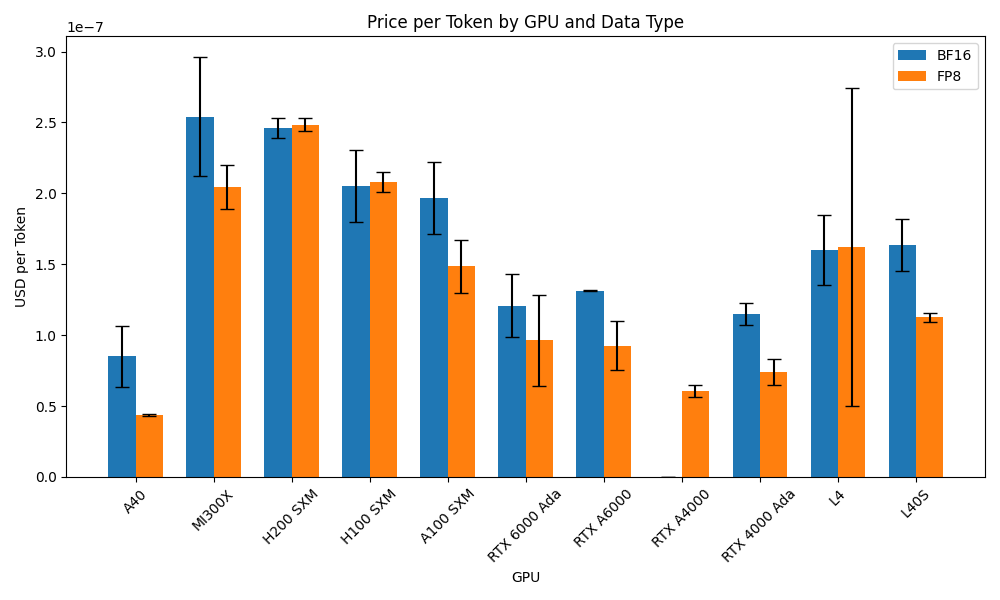
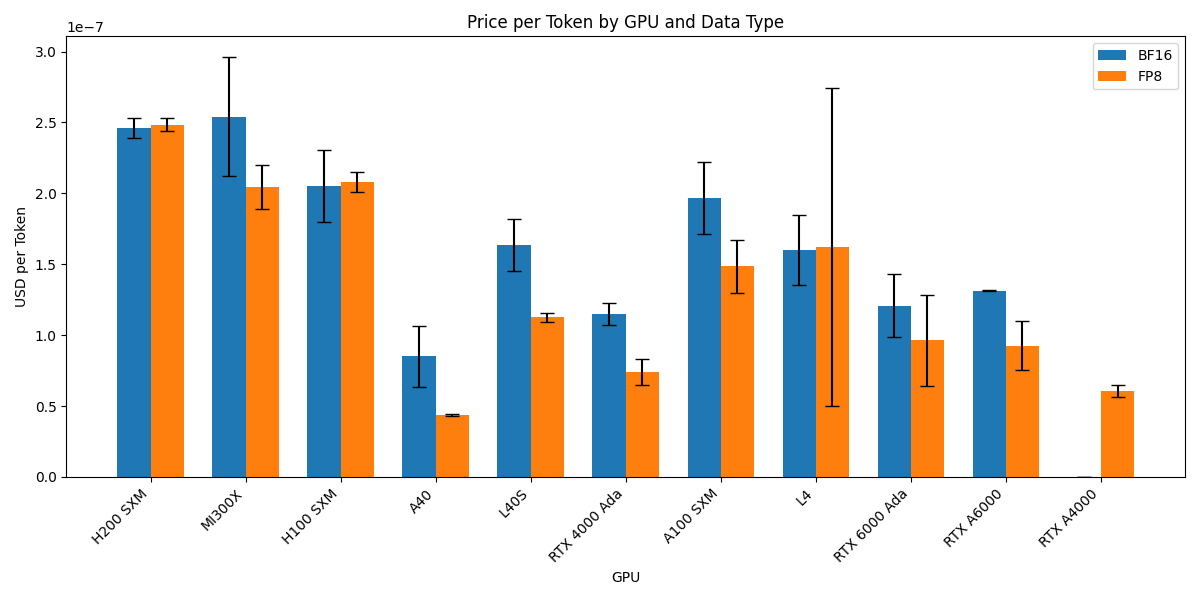
- Added a new function to determine GPU order based on FP8 TTFT values for consistent plotting. - Updated the `create_grouped_bar_plot` function to accept a custom GPU order. - Modified the plotting functions to utilize the new GPU order for overall throughput, TTFT, and price per token visualizatio

diff --git a/scripts/visualize_results.py b/scripts/visualize_results.py
@@ -8,23 +8,26 @@ def create_plots_dir():
     if not os.path.exists('plots'):
         os.makedirs('plots')
 
-def create_grouped_bar_plot(metric_name, df, title, ylabel, filename):
+def get_gpu_order_by_fp8_ttft(df):
+    """Get GPU order based on FP8 TTFT values."""
+    fp8_ttft = df[df['data_type'] == 'FP8'].groupby('gpu_info')['ttft'].mean()
+    return fp8_ttft.sort_values().index.tolist()
+
+def create_grouped_bar_plot(metric_name, df, title, ylabel, filename, gpu_order):
     """Create a grouped bar plot with error bars."""
-    # Get unique GPUs and data types
-    gpus = df['gpu_info'].unique()
-    data_types = sorted(df['data_type'].unique())  # Sort to ensure consistent ordering
+    # Get unique data types
+    data_types = sorted(df['data_type'].unique())
     
     # Set up the plot
-    plt.figure(figsize=(10, 6))
-    width = 0.35  # Width of bars
-    x = np.arange(len(gpus))
+    plt.figure(figsize=(12, 6))
+    width = 0.35
+    x = np.arange(len(gpu_order))
     
     # Create bars for each data type
     for i, dtype in enumerate(data_types):
-        # Get data for this type, maintaining GPU order
         data = []
         errors = []
-        for gpu in gpus:
+        for gpu in gpu_order:
             gpu_data = df[(df['gpu_info'] == gpu) & (df['data_type'] == dtype)]
             if not gpu_data.empty:
                 data.append(gpu_data[metric_name].mean())
@@ -43,7 +46,7 @@ def create_grouped_bar_plot(metric_name, df, title, ylabel, filename):
     plt.xlabel('GPU')
     plt.ylabel(ylabel)
     plt.title(title)
-    plt.xticks(x, gpus, rotation=45)
+    plt.xticks(x, gpu_order, rotation=45, ha='right')
     plt.legend()
     plt.tight_layout()
     
@@ -55,38 +58,57 @@ def plot_metrics_by_gpu(df):
     """Create various performance metric plots."""
     create_plots_dir()
     
-    # Plot overall throughput
-    create_grouped_bar_plot('overall_throughput', 
-                          df,
-                          'Token Generation Throughput by GPU and Data Type',
-                          'Tokens/second',
-                          'overall_throughput_by_gpu')
+    # Get GPU order based on FP8 TTFT
+    gpu_order = get_gpu_order_by_fp8_ttft(df)
+    print("\nGPU order based on FP8 TTFT:")
+    for i, gpu in enumerate(gpu_order, 1):
+        fp8_ttft = df[(df['data_type'] == 'FP8') & (df['gpu_info'] == gpu)]['ttft'].mean()
+        print(f"{i}. {gpu}: {fp8_ttft:.3f}s")
     
-    # Plot TTFT (Time To First Token)
+    # Plot metrics using consistent GPU order
     create_grouped_bar_plot('ttft',
                           df,
                           'Time To First Token by GPU and Data Type',
                           'Seconds',
-                          'ttft_by_gpu')
+                          'ttft_by_gpu',
+                          gpu_order)
     
-    # Plot price per token
+    create_grouped_bar_plot('overall_throughput', 
+                          df,
+                          'Token Generation Throughput by GPU and Data Type',
+                          'Tokens/second',
+                          'overall_throughput_by_gpu',
+                          gpu_order)
+    
     create_grouped_bar_plot('price_per_token',
                           df,
                           'Price per Token by GPU and Data Type',
                           'USD per Token',
-                          'price_per_token_by_gpu')
+                          'price_per_token_by_gpu',
+                          gpu_order)
 
 def print_summary_stats(df):
     """Print summary statistics for the benchmark results."""
     print("\nSummary Statistics:")
-    print("\nAverage Throughput by GPU and Data Type:")
-    print(df.groupby(['gpu_info', 'data_type'])['overall_throughput'].mean())
     
-    print("\nAverage TTFT by GPU and Data Type:")
-    print(df.groupby(['gpu_info', 'data_type'])['ttft'].mean())
+    # Get GPU order for consistent presentation
+    gpu_order = get_gpu_order_by_fp8_ttft(df)
     
-    print("\nAverage Price per Token by GPU and Data Type:")
-    print(df.groupby(['gpu_info', 'data_type'])['price_per_token'].mean())
+    metrics = {
+        'Throughput': 'overall_throughput',
+        'TTFT': 'ttft',
+        'Price per Token': 'price_per_token'
+    }
+    
+    for metric_name, column in metrics.items():
+        print(f"\nAverage {metric_name} by GPU and Data Type:")
+        stats = df.pivot_table(
+            values=column,
+            index='gpu_info',
+            columns='data_type',
+            aggfunc='mean'
+        ).reindex(gpu_order)
+        print(stats)
 
 def main():
     # Connect to database
